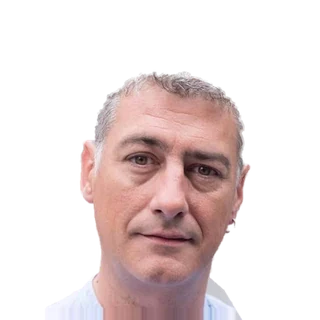
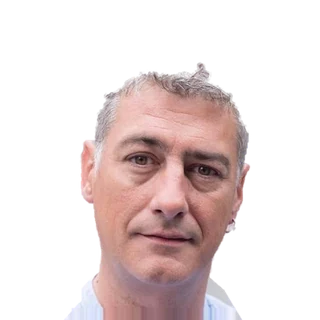
Spanyol oldal: Matute és Valido újravágva
Claude-Session: https://claude.ai/code/session_01J8PjfkUCs1TyppvFaUMZMM

diff --git a/sw.js b/sw.js
@@ -1,7 +1,7 @@
 /* Választások – offline gyorsítótár.
    Oldalak és élő adatok: mindig a hálózatról, gyorsítótár csak tartaléknak (offline).
    Statikus fájlok: azonnal a gyorsítótárból, közben a háttérben frissül. */
-const V="v61w",CORE="core-"+V,RT="rt-"+V;
+const V="v61x",CORE="core-"+V,RT="rt-"+V;
 const PRE=["./","index.html","eredmenyek","spanyol-valasztas","spanyol-szimulator","spanyol-valasztas.html","spanyol-szimulator.html","zold-foki-szigetek-valasztas","zold-foki-szigetek-valasztas.html","eredmenyek.html","magyarorszag.html","szimulator.html","orszag.html","spanyolorszag.html","nemetorszag.html","ausztria.html","szlovakia.html","romania.html","egyesult-allamok.html","valasztasi-rendszer.html","naptar.html","404.html",
   "assets/portal.css?v=16","assets/orszagok.js?v=11","assets/fastzoom.js?v=1","assets/anim.js?v=3","assets/terkep-anim.js?v=4","assets/app.js?v=9","assets/app/icon-192.png?v=3","manifest.webmanifest"];
 self.addEventListener("install",e=>{e.waitUntil(caches.open(CORE).then(c=>Promise.all(PRE.map(u=>c.add(u).catch(()=>{})))).then(()=>self.skipWaiting()));});
